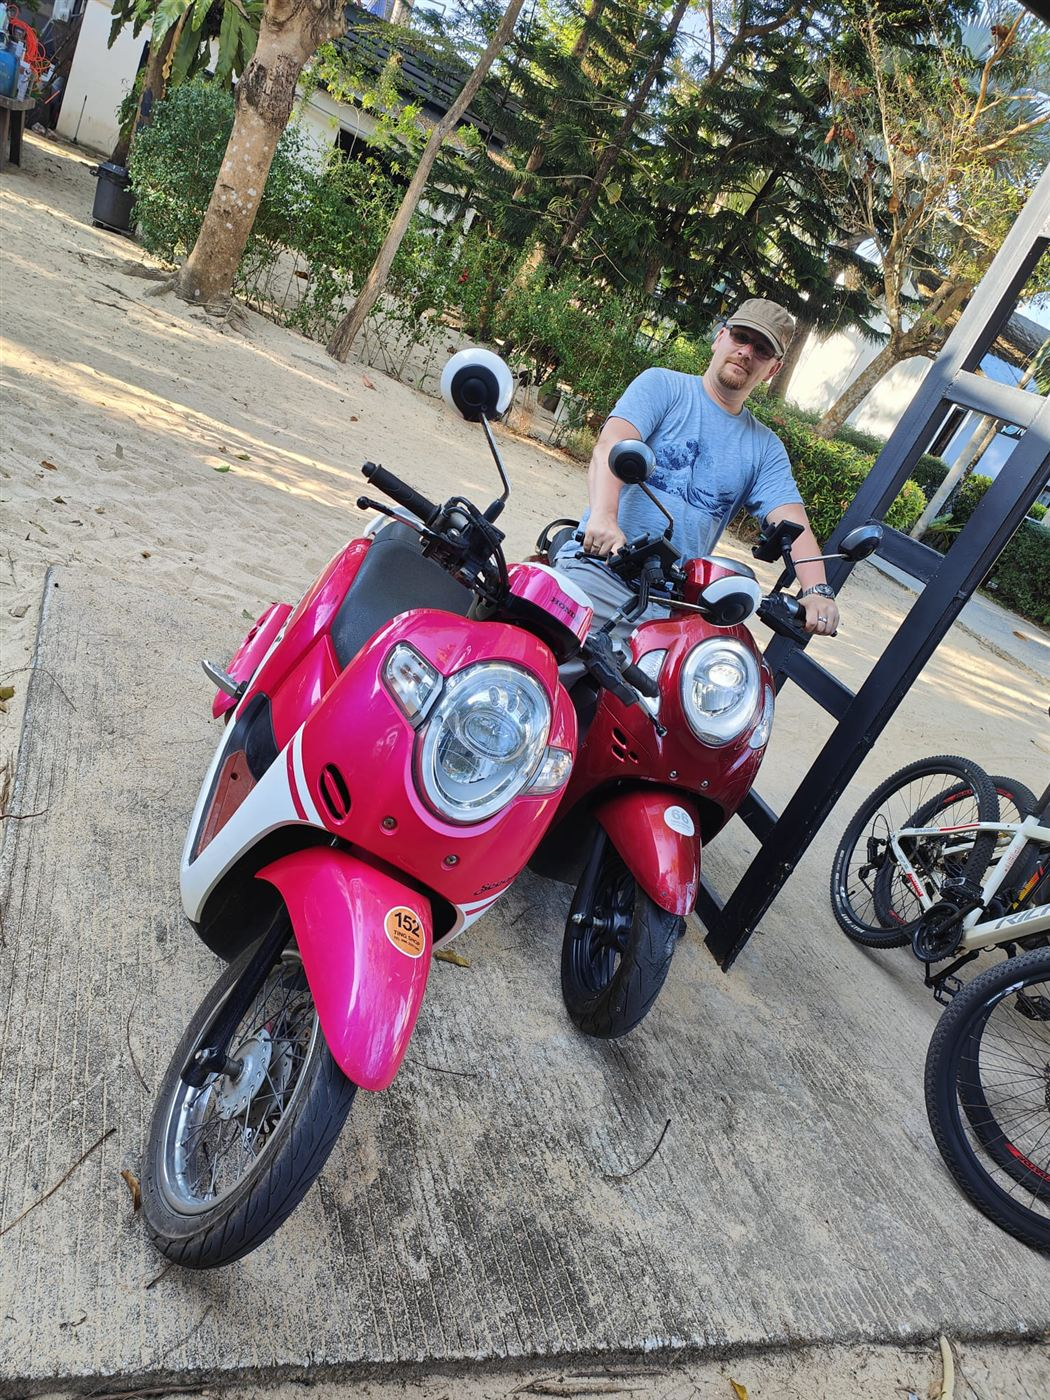
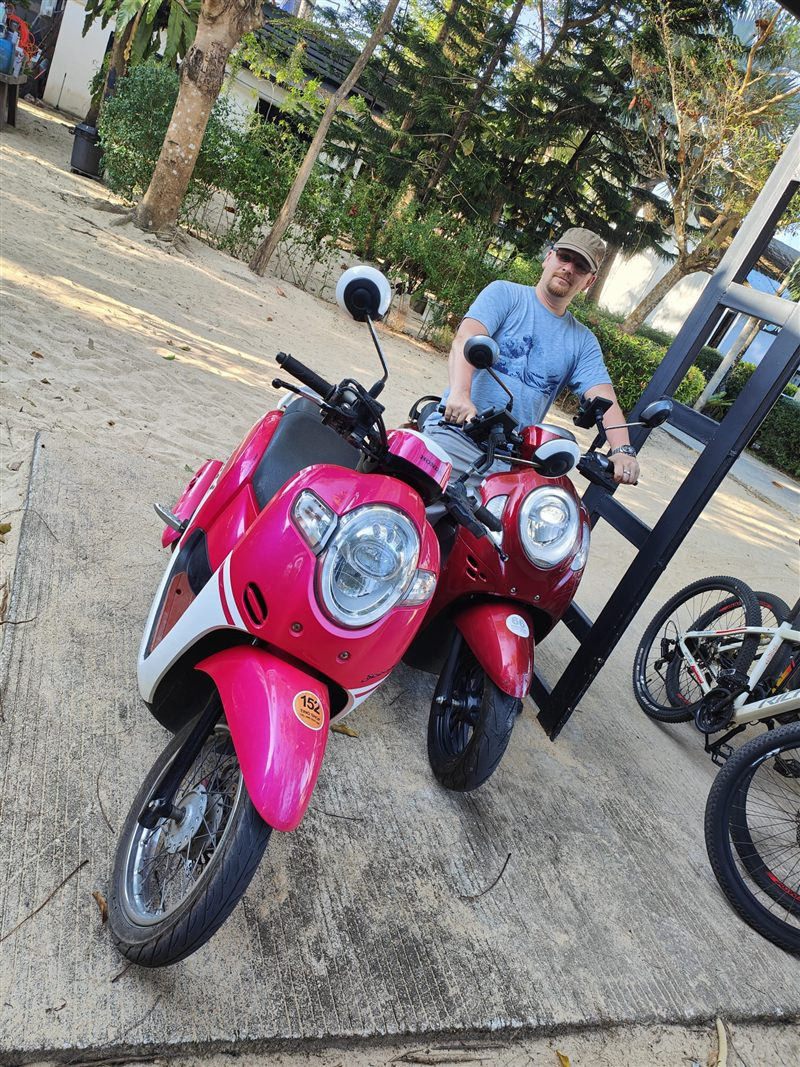
Fix Koh Phayam Tag 1: Ticketkauf-, Zimmer- und Nong-Taew-Bilder korrigieren, Abflugtafel & Happy Land Bar entfernen, Roller-Crop fixen

diff --git a/reise-thailand-2026.html b/reise-thailand-2026.html
@@ -638,7 +638,7 @@
       <div class="sqf-item"><span class="sqf-icon">📅</span><div class="sqf-content"><span class="sqf-label">Reisezeitraum</span><span class="sqf-value">4.–7. Januar 2026</span></div></div>
       <div class="sqf-item"><span class="sqf-icon">🌙</span><div class="sqf-content"><span class="sqf-label">Nächte</span><span class="sqf-value">3 Nächte</span></div></div>
       <div class="sqf-item"><span class="sqf-icon">🏝</span><div class="sqf-content"><span class="sqf-label">Hotel &amp; Preis</span><span class="sqf-value">Nitiporn Resort · <span class="sqf-placeholder">Preis folgt</span></span></div></div>
-      <div class="sqf-item"><span class="sqf-icon">🍽️</span><div class="sqf-content"><span class="sqf-label">Restaurants</span><span class="sqf-value">Nong Taew · Restaurant Ying · Happy Land Bar</span></div></div>
+      <div class="sqf-item"><span class="sqf-icon">🍽️</span><div class="sqf-content"><span class="sqf-label">Restaurants</span><span class="sqf-value">Nong Taew · Restaurant Ying</span></div></div>
       <div class="sqf-item"><span class="sqf-icon">🚗</span><div class="sqf-content"><span class="sqf-label">Transport</span><span class="sqf-value">Inlandsflug DMK → Ranong · Speedboat · Moped / Elektrobike</span></div></div>
       <div class="sqf-item"><span class="sqf-icon">🎯</span><div class="sqf-content"><span class="sqf-label">Highlights</span><span class="sqf-value">Buffalo Bay Beach · Mopedtour · Sonnenuntergang</span></div></div>
     </div>
@@ -670,8 +670,8 @@
           <p>Nach 1 Stunde 20 Minuten landen wir in Ranong, wo uns bereits ein Fahrer zum Pier erwartet. Die Speedboat-Tickets für 350 Baht pro Person holen wir direkt vor Ort und wir haben Glück: Das nächste Boot legt 45 Minuten später ab. Es wird kuschelig im Boot, aber bei knapp 45 Minuten Fahrtzeit ist das absolut kein Problem.</p>
         </div>
         <figure>
-          <img src="Thailand 2026/compressed/koh-phayam/kp-01-abflug.jpg" alt="Abflugtafel am Don Mueang Airport mit Flug nach Ranong" loading="lazy">
-          <figcaption class="cap">04:30 Uhr – die Abflugtafel am Don Mueang</figcaption>
+          <img src="Thailand 2026/compressed/koh-phayam/kp-13-ticketkauf.jpg" alt="Ticketkauf für das Speedboot nach Koh Phayam am Pier in Ranong" loading="lazy">
+          <figcaption class="cap">Speedboat-Tickets am Pier in Ranong – 350 Baht p.P.</figcaption>
         </figure>
       </div>
 
@@ -697,6 +697,17 @@
         </figure>
       </div>
 
+      <div class="photo-row-2">
+        <figure>
+          <img src="Thailand 2026/compressed/koh-phayam/kp-14-zimmer-bett.jpg" alt="Hotelzimmer im Nitiporn Resort im Industrial-Beton-Look" loading="lazy">
+          <figcaption class="cap">Unser Zimmer – Industrial-Beton-Look</figcaption>
+        </figure>
+        <figure>
+          <img src="Thailand 2026/compressed/koh-phayam/kp-15-zimmer-tv.jpg" alt="Zimmerecke im Nitiporn Resort mit Fernseher und Sitzbereich" loading="lazy">
+          <figcaption class="cap">Großzügig, sauber, funktional</figcaption>
+        </figure>
+      </div>
+
       <div class="photo-full">
         <img src="Thailand 2026/compressed/koh-phayam/kp-03-strand.jpg" alt="Einsamer Strand auf Koh Phayam mit Palmen und Hängematte" loading="lazy">
         <figcaption class="cap" style="margin-top:8px">Buffalo Bay Beach – direkt vor der Tür</figcaption>
@@ -708,8 +719,19 @@
           <p>Vor Ort treffen wir Jan, einen alten Kollegen, den ich seit Jahren nicht mehr gesehen habe. Durch Zufall hatten wir beide zur selben Zeit Koh Phayam auf dem Plan. Er ist schon seit eineinhalb Wochen hier, kennt die Insel schon sehr gut und hat für den nächsten Abend bereits einen Konzertvorschlag parat.</p>
         </div>
         <figure>
-          <img src="Thailand 2026/compressed/koh-phayam/kp-essen-collage.jpg" alt="Essens-Collage vom Nong Taew: Spring Rolls, Garnelen, Steak, Fish & Chips" loading="lazy">
-          <figcaption class="cap">Was auf den Tisch kam – im Nong Taew</figcaption>
+          <img src="Thailand 2026/compressed/koh-phayam/kp-05-gruppe-chang.jpg" alt="Gruppe mit Chang-Bier am Tisch im Nong Taew" loading="lazy">
+          <figcaption class="cap">Chang o'clock im Nong Taew – mit Jan</figcaption>
+        </figure>
+      </div>
+
+      <div class="photo-row-2">
+        <figure>
+          <img src="Thailand 2026/compressed/koh-phayam/kp-16-somtam.jpg" alt="Som Tam mit Garnelen im Nong Taew" loading="lazy">
+          <figcaption class="cap">Som Tam Goong im Nong Taew</figcaption>
+        </figure>
+        <figure>
+          <img src="Thailand 2026/compressed/koh-phayam/kp-17-fried-rice.jpg" alt="Seafood Fried Rice mit Mango im Nong Taew" loading="lazy">
+          <figcaption class="cap">Seafood Fried Rice mit Mango</figcaption>
         </figure>
       </div>
 
@@ -723,7 +745,7 @@
           <figcaption class="cap">Eiskalt, aber mit Aussicht: unser Pool</figcaption>
         </figure>
         <figure>
-          <img src="Thailand 2026/compressed/koh-phayam/kp-11-mopeds.jpg" alt="Pinke Mopeds auf Koh Phayam" loading="lazy">
+          <img src="Thailand 2026/compressed/koh-phayam/kp-11-mopeds.jpg" alt="Pinke Mopeds auf Koh Phayam" loading="lazy" style="object-fit:contain;background:#f4f1ec">
           <figcaption class="cap">Fortbewegung auf der Insel: pinke Mopeds</figcaption>
         </figure>
       </div>
@@ -735,17 +757,6 @@
         <figure>
           <img src="Thailand 2026/compressed/koh-phayam/kp-10-sunset-restaurant.jpg" alt="Strandrestaurant bei Sonnenuntergang mit Meerblick im Heaven Resort and Art" loading="lazy">
           <figcaption class="cap">Sundowner im Heaven Resort and Art</figcaption>
-        </figure>
-      </div>
-
-      <div class="photo-row-2">
-        <figure>
-          <img src="Thailand 2026/compressed/koh-phayam/kp-05-gruppe-chang.jpg" alt="Gruppe mit Chang-Bier am Tisch" loading="lazy">
-          <figcaption class="cap">Chang o'clock mit Jan</figcaption>
-        </figure>
-        <figure>
-          <img src="Thailand 2026/compressed/koh-phayam/kp-06-happyland.jpg" alt="Happy Land Bar Schild auf Koh Phayam" loading="lazy">
-          <figcaption class="cap">Happy Land – wird noch unser Stammlokal</figcaption>
         </figure>
       </div>
 